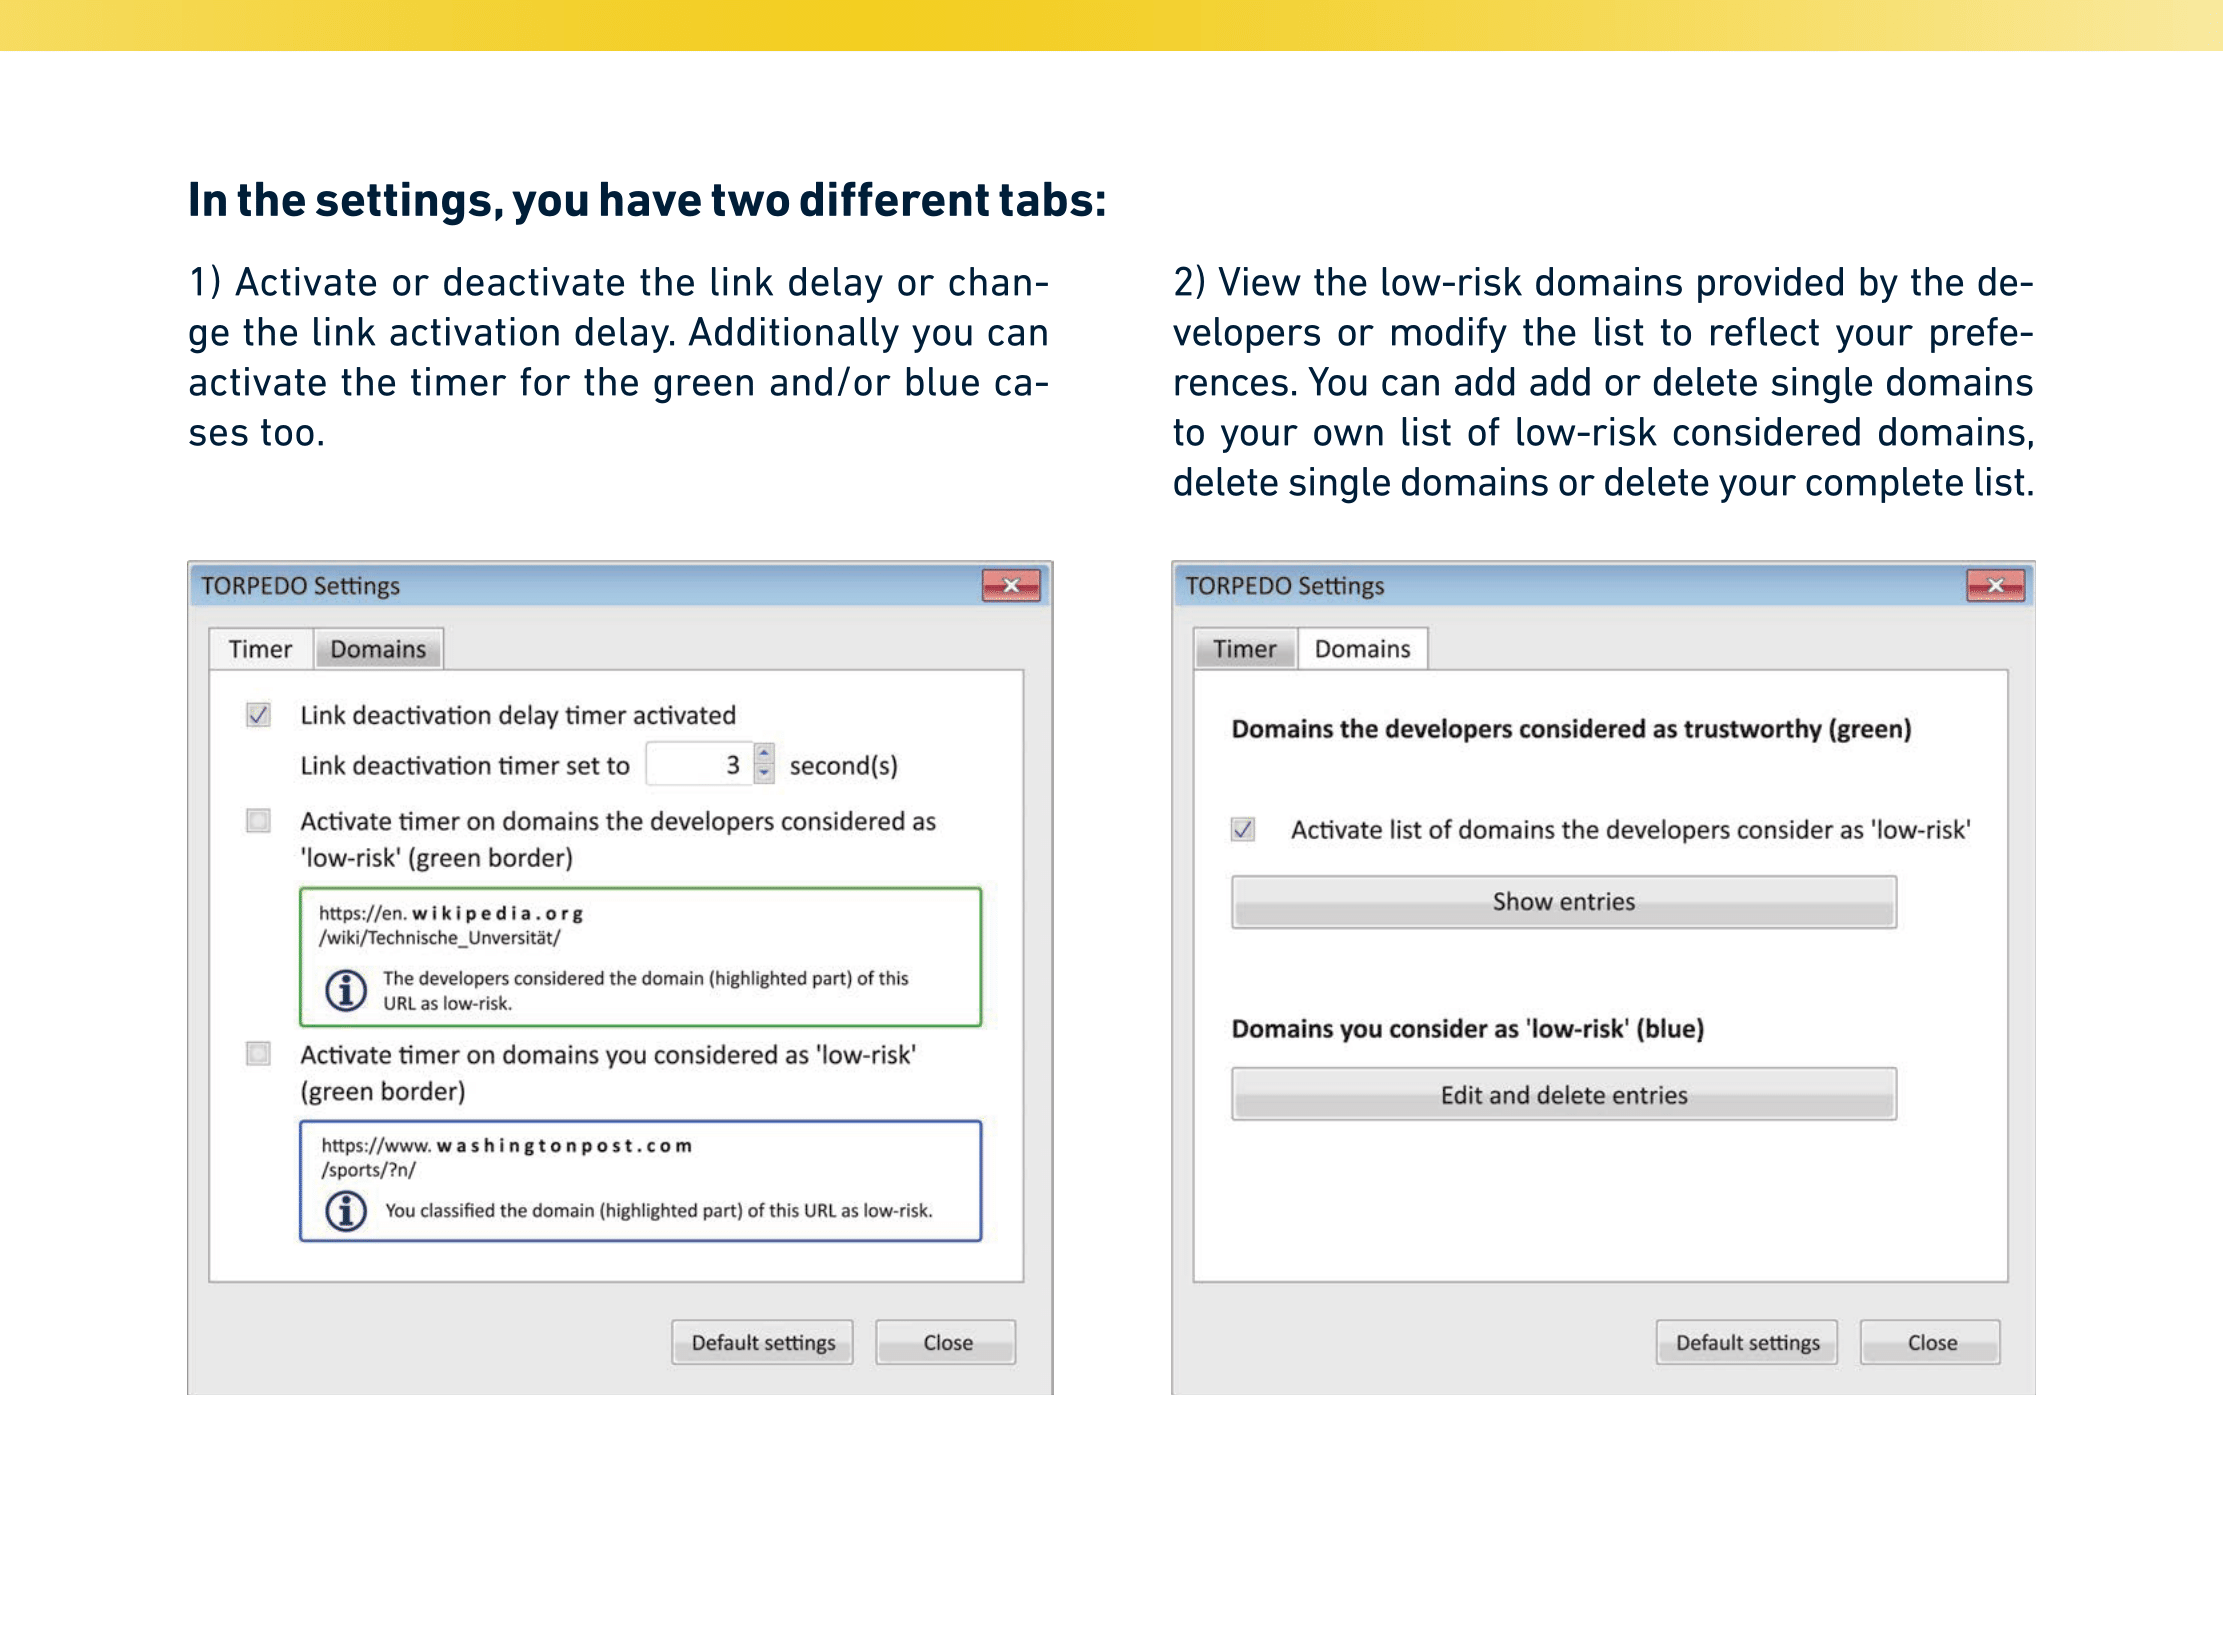
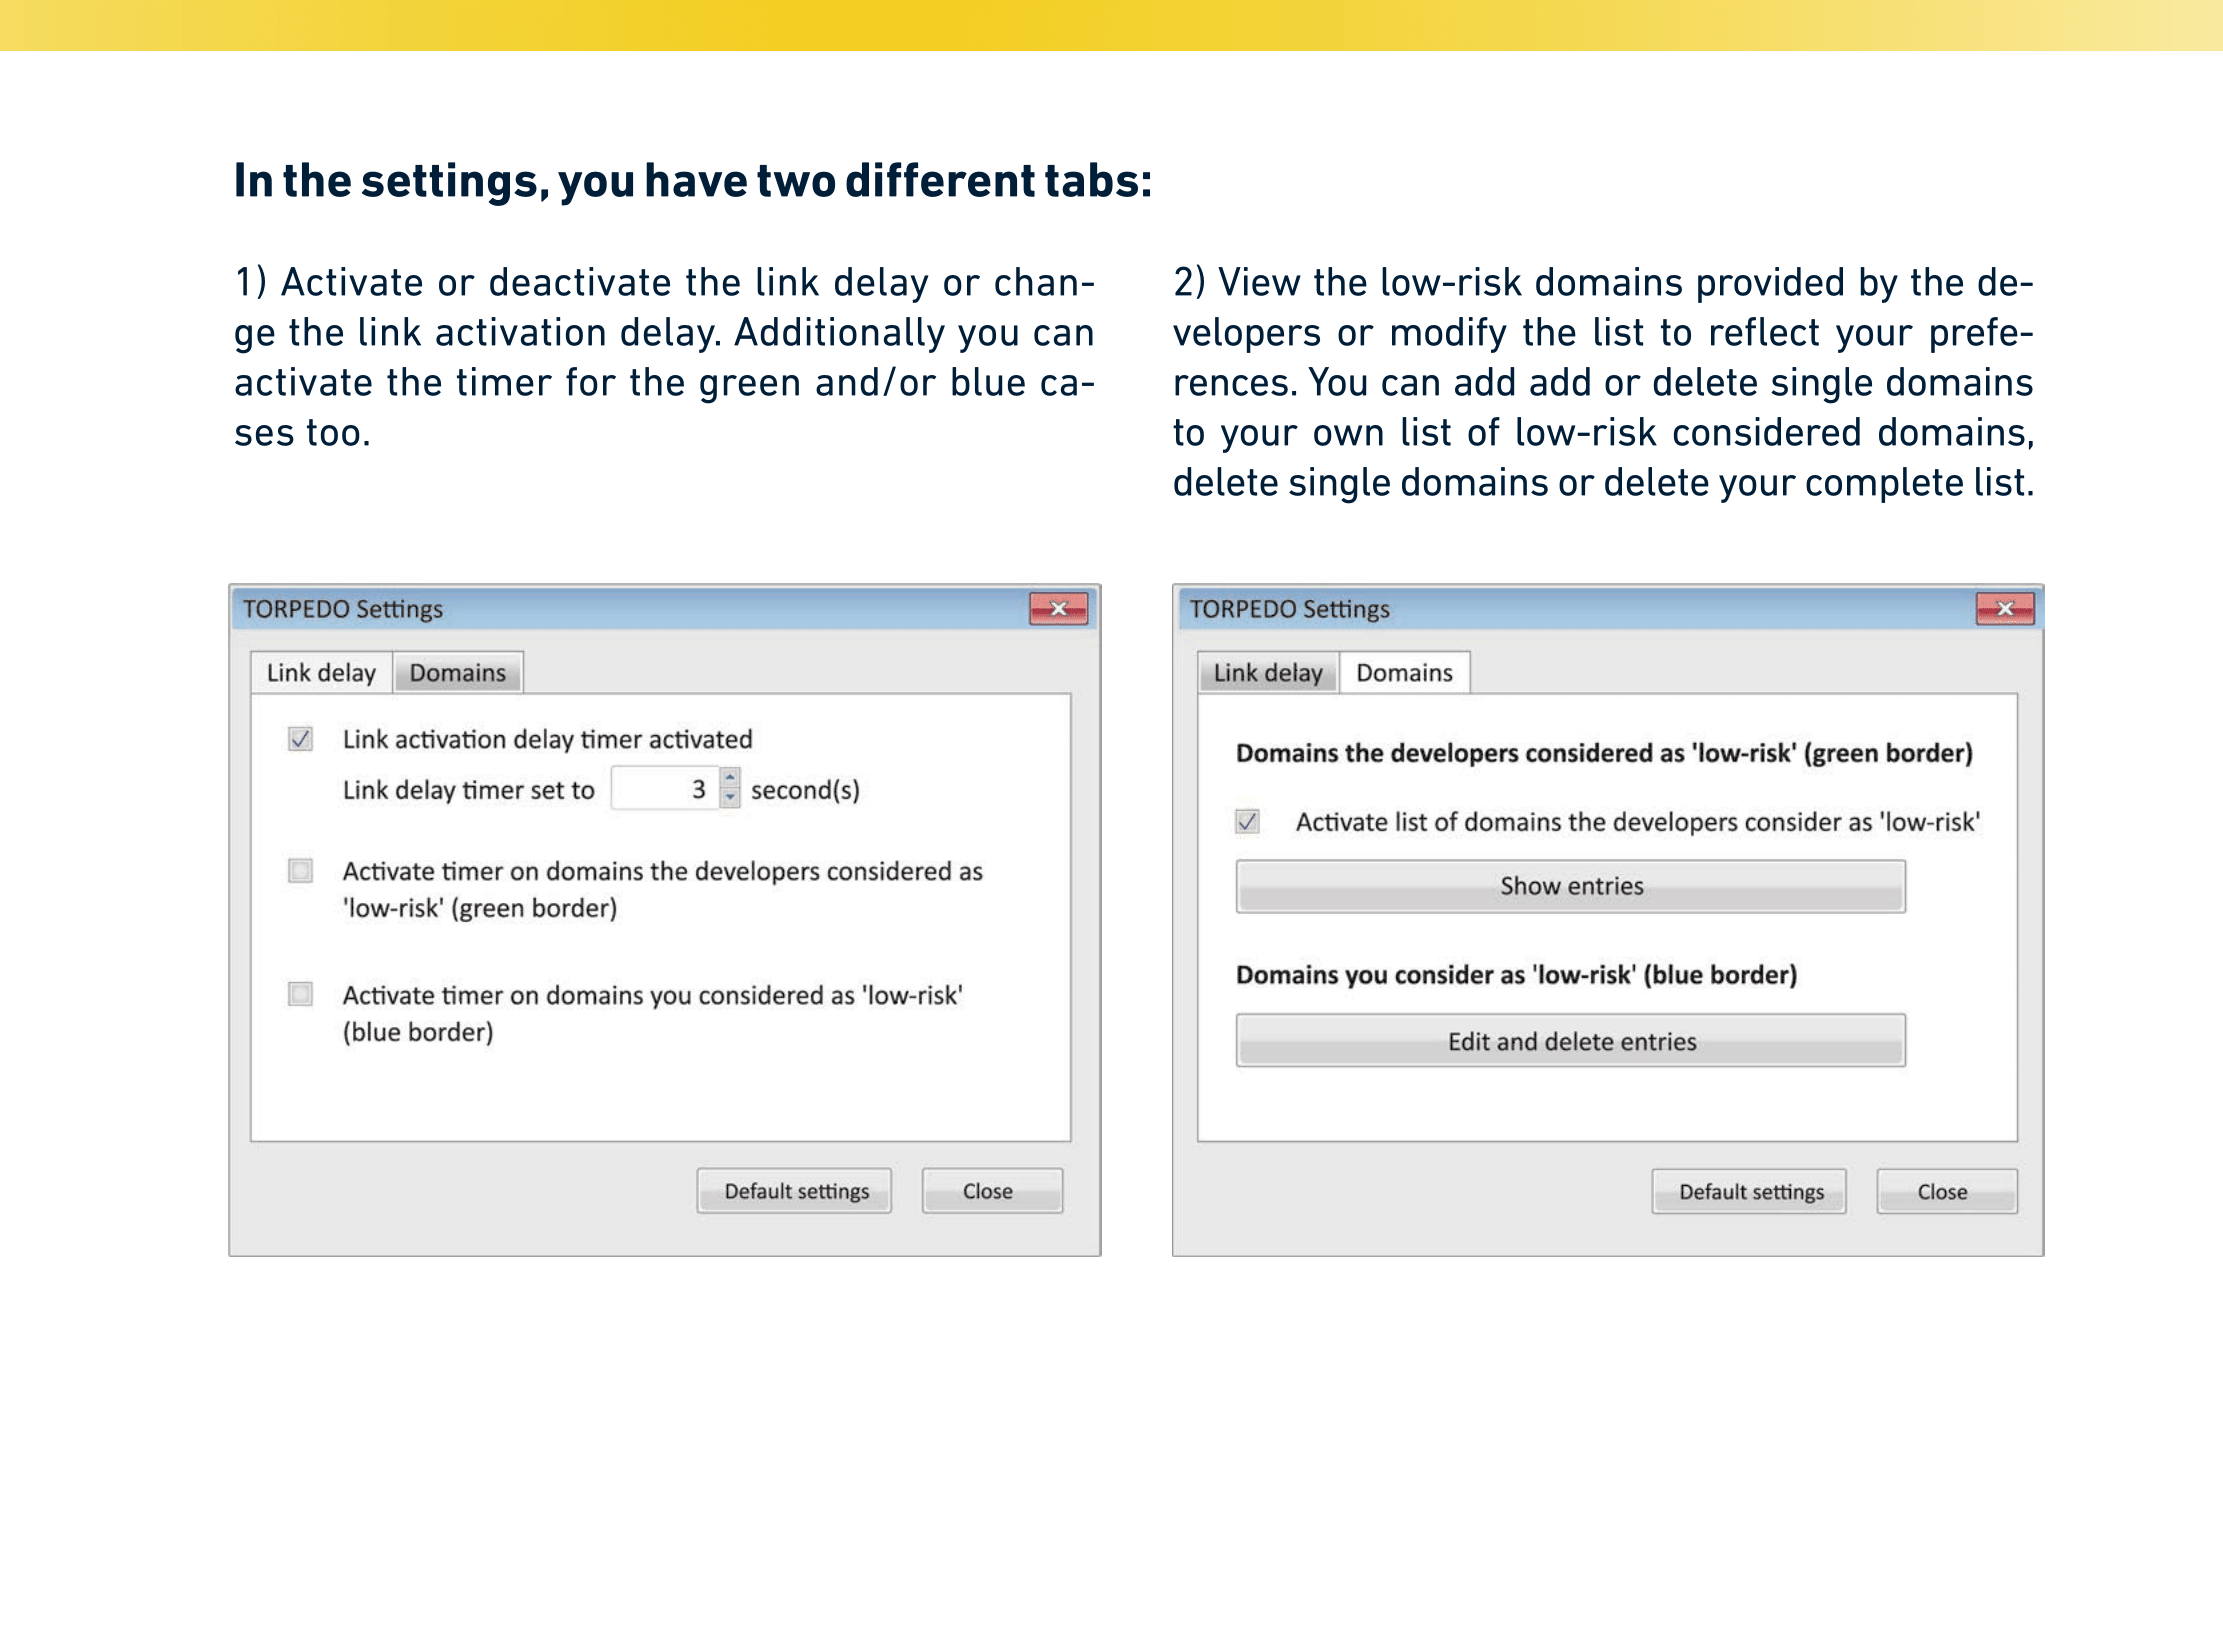
renamed windows and created new infobox texts

diff --git a/chrome/content/main.js b/chrome/content/main.js
@@ -8,7 +8,7 @@ torpedo.textSize;
 torpedo.gmxRedirect;
 torpedo.redirectClicked;
 torpedo.oldUrl;
-torpedo.infotext;
+torpedo.info;
 torpedo.state; // 0 is unknown, 1 is green, 2 is blue, 3 is grey, 4 is redirect, 5 is gmxredirect, 6 is phish
 
 torpedo.updateTooltip = function (url)
@@ -29,6 +29,7 @@ torpedo.updateTooltip = function (url)
 	var advice = document.getElementById("advice");
 	var advicebox = document.getElementById("advicebox");
 	var infotext = document.getElementById("infotext");
+	var infopic = document.getElementById("info-pic");
 	var infobox = document.getElementById("infobox");
 	var infos = document.getElementById("infos");
 	var nore = torpedo.prefs.getBoolPref("redirection0");
@@ -44,6 +45,7 @@ torpedo.updateTooltip = function (url)
 	linkDeactivate.hidden = shortenText;
 	phish.hidden = true;
 	advice.textContent = torpedo.stringsBundle.getString('knownadvice');
+	infotext.textContent = torpedo.stringsBundle.getString('moreinfolowrisk');
 	advicebox.hidden = false;
 	// assert url to tooltip
 	baseDomain.textContent = torpedo.baseDomain;
@@ -51,14 +53,17 @@ torpedo.updateTooltip = function (url)
 	var beginning = url.substring(0, split);
 	var end = url.substring(split+torpedo.baseDomain.length, url.length);
 	infos.style.marginBottom = "0px";
+	phish.style.marginBottom = "10px";
+	infobox.style.marginTop = "7px";
 	if(navigator.language.indexOf("de") > -1){
-		phish.style.marginBottom = "10px";
-		infobox.style.marginTop = "7px";
+		infotext.style.margin = "4px 0px 20px 6px"
+		infopic.style.marginTop = "6px"
 	}
 	else{
-		infobox.style.marginTop = "7px";
-		phish.style.marginBottom = "10px";
+		infotext.style.margin = "4px 0px 0px 6px";
+		infopic.style.marginTop = "0px";
 	}
+
 	if(torpedo.prefs.getIntPref("blockingTimer")==0) secondsbox.hidden = true;
 	url1.textContent = beginning;
 	url2.textContent = "";
@@ -80,7 +85,7 @@ torpedo.updateTooltip = function (url)
 	if(torpedo.functions.isChecked("green") && torpedo.db.inList(torpedo.baseDomain, "URLDefaultList") && !isRedirect){
 		panel.style.borderColor = "green";
 		torpedo.state = 1;
-		if(!torpedo.functions.isRedirect(torpedo.oldUrl)) torpedo.infotext = torpedo.stringsBundle.getString('infosongreen');
+		if(!torpedo.functions.isRedirect(torpedo.oldUrl)) torpedo.info = torpedo.stringsBundle.getString('infosongreen');
 		//if(shortenText) redirect.textContent = "";
 		//else
 		redirect.textContent = torpedo.stringsBundle.getString('lowrisk');
@@ -100,7 +105,7 @@ torpedo.updateTooltip = function (url)
 	else if(torpedo.db.inList(torpedo.baseDomain, "URLSecondList") && !isRedirect){
 		panel.style.borderColor = "#1a509d";
 		torpedo.state = 2;
-		if(!torpedo.functions.isRedirect(torpedo.oldUrl)) torpedo.infotext = torpedo.stringsBundle.getString('infosonblue');
+		if(!torpedo.functions.isRedirect(torpedo.oldUrl)) torpedo.info = torpedo.stringsBundle.getString('infosonblue');
 		if(shortenText) redirect.textContent = "";
 		else redirect.textContent = torpedo.stringsBundle.getString('userrisk');
 		advicebox.hidden = true;
@@ -121,8 +126,9 @@ torpedo.updateTooltip = function (url)
 			infobox.style.marginTop = "23px";
 		else infobox.style.marginTop = "10px";
 		advice.textContent = torpedo.stringsBundle.getString('unknownadvice');
+		infotext.textContent = torpedo.stringsBundle.getString('moreinfogrey');
 		if(!torpedo.functions.isRedirect(torpedo.oldUrl)){
-			torpedo.infotext = "";
+			torpedo.info = "";
 		}
 		else if(!isRedirect){
 			if(navigator.language.indexOf("de") > -1)
@@ -141,13 +147,16 @@ torpedo.updateTooltip = function (url)
 		phish.hidden = false;
 		advice.hidden = false;
 		phish.textContent = shortenText ? torpedo.stringsBundle.getString('redirect') : torpedo.stringsBundle.getString('alert_redirect');
-		torpedo.infotext = torpedo.stringsBundle.getString('infosongmxredirect');
+		infotext.textContent = torpedo.stringsBundle.getString('moreinforedirect');
+		torpedo.info = torpedo.stringsBundle.getString('infosongmxredirect');
 		if(navigator.language.indexOf("de") > -1){
 			phish.style.marginBottom = "5px";
 		}
 		else{
 			phish.style.marginBottom = "5px";
 		}
+		infotext.style.margin = "4px 0px 0px 6px";
+		infopic.style.marginTop = "0px";
 	}
 	// settings for redirect case
 	if(isRedirect){
@@ -155,11 +164,17 @@ torpedo.updateTooltip = function (url)
 			torpedo.state = 4;
 			if(shortenText) redirect.textContent = torpedo.stringsBundle.getString('shorturl_short');
 			else redirect.textContent = torpedo.stringsBundle.getString('shorturl');
-			torpedo.infotext = torpedo.stringsBundle.getString('infosonredirect');
+			torpedo.info = torpedo.stringsBundle.getString('infosonredirect');
 			advice.textContent = torpedo.stringsBundle.getString('redirectadvice');
-			if(navigator.language.indexOf("de") > -1)
+			infotext.textContent = torpedo.stringsBundle.getString('moreinforedirect');
+			if(navigator.language.indexOf("de") > -1){
 				infobox.style.marginTop = "25px";
-			else infobox.style.marginTop = "25px";
+			}
+			else{
+				infobox.style.marginTop = "25px";
+			}
+			infotext.style.margin = "4px 0px 0px 6px";
+			infopic.style.marginTop = "0px";
 		}
 	  else{
 	    redirectButton.hidden = true;
@@ -205,7 +220,10 @@ torpedo.updateTooltip = function (url)
 				}
 				phish.hidden = false;
 				advice.textContent = torpedo.stringsBundle.getString('phishadvice');
-				torpedo.infotext = torpedo.stringsBundle.getString('infosonred');
+				infotext.textContent = torpedo.stringsBundle.getString('moreinfophish');
+				infotext.style.margin = "4px 0px 20px 6px"
+				infopic.style.marginTop = "6px"
+				torpedo.info = torpedo.stringsBundle.getString('infosonred');
 			}
 		}
 	}

diff --git a/chrome/content/lib/handler.js b/chrome/content/lib/handler.js
@@ -62,7 +62,7 @@ torpedo.handler.mouseOverHref = function (event)
 	var moreinfos = document.getElementById("moreinfos");
 	var panel = document.getElementById("tooltippanel");
 	// do nothing when user reads infotext
-	if(panel.state == "closed" || torpedo.infotext == "" || moreinfos.textContent == ""){
+	if(panel.state == "closed" || torpedo.info == "" || moreinfos.textContent == ""){
 		mouseout = mouseout[0] ? [false,true] : [false,false];
 		tempTarget = torpedo.functions.findParentTagTarget(event, 'A');
 		var url = tempTarget.getAttribute("href");
@@ -87,7 +87,7 @@ torpedo.handler.mouseOverHref = function (event)
 				alreadyClicked = "";
 				var redirect = false;
 				moreinfos.textContent = "";
-				torpedo.infotext = "";
+				torpedo.info = "";
 				document.getElementById("infocheck").hidden = true;
 
 				// check if url is a "redirectUrl=" url (gmxredirect)
@@ -193,18 +193,17 @@ torpedo.handler.mouseClickInfoButton = function (event)
 			torpedo.dialogmanager.createUnknownInfo();
 		}
 		document.getElementById("infocheck").hidden = false;
-		moreinfos.textContent = torpedo.infotext;
+		moreinfos.textContent = torpedo.info;
 	}
 	else{
 		if(moreinfos.textContent != ""){
 			moreinfos.textContent = "";
 		}
-		else moreinfos.textContent = torpedo.infotext;
+		else moreinfos.textContent = torpedo.info;
 	}
 };
 
 torpedo.handler.mouseClickDeleteButton = function(event){
-	Application.console.log("2")
 	torpedo.dialogmanager.createDelete();
 };
 torpedo.handler.mouseClickDefaultsEditButton = function(event){

diff --git a/chrome/content/lib/dialogmanager.js b/chrome/content/lib/dialogmanager.js
@@ -6,9 +6,12 @@ torpedo.dialogmanager.createDelete = function ()  {
 	windowHeight=500;
   var left = (screen.width/2)-(windowWidth/2);
   var top = (screen.height/2)-(windowHeight/2);
-  window.openDialog("chrome://torpedo/content/dialog/delete.xul", "bmarks", "chrome=yes, dialog,resizable=no, modal, top='+top+',left='+left+',width='+windowWidth+',height='+windowHeight+'",top,left);
+  window.openDialog("chrome://torpedo/content/dialog/delete.xul", "bmarksdelete", "chrome=yes, dialog,resizable=no, modal, top='+top+',left='+left+',width='+windowWidth+',height='+windowHeight+'",top,left);
 };
 
+torpedo.dialogmanager.options = function() {
+  window.openDialog('chrome://torpedo/content/options.xul','bmarksoptions','chrome=yes, dialog,resizable=no, modal, centerscreen');
+}
 torpedo.dialogmanager.createDefaultDelete = function (windowWidth,windowHeight)  {
 	window.openDialog("chrome://torpedo/content/dialog/defaultdelete.xul", "bmarks", "chrome, dialog,resizable=no,centerscreen, modal,width='+windowWidth+',height='+windowHeight+'");
 };
@@ -18,7 +21,7 @@ torpedo.dialogmanager.createEdit = function () {
 };
 
 torpedo.dialogmanager.createInfo = function () {
-	window.openDialog("chrome://torpedo/content/dialog/info.xul", "bmarks", "chrome=yes, dialog,resizable=no, modal, centerscreen");
+	window.openDialog("chrome://torpedo/content/dialog/info.xul", "bmarksinfo", "chrome=yes, dialog,resizable=no, modal, centerscreen");
 };
 
 torpedo.dialogmanager.showDefaults = function(){

diff --git a/chrome/content/lib/funktions.js b/chrome/content/lib/funktions.js
@@ -376,7 +376,6 @@ torpedo.functions.changeActivatedOrange = function (click){
 torpedo.functions.changeCheckedTimer = function (){
     d = !d;
     torpedo.prefs.setBoolPref("checkedTimer", d);
-    Application.console.log(document.getElementById("listofdefaults").style.color);
     if(!d){
         torpedo.prefs.setIntPref("blockingTimer", 0);
         document.getElementById("countdown").disabled = true;
@@ -395,23 +394,6 @@ torpedo.functions.changeCheckedTimer = function (){
         document.getElementById("activateorange").removeAttribute("style");
         document.getElementById("activateorange").setAttribute("style","width:330px; margin-top:15px");
     }
-}
-
-torpedo.functions.setTimerRange = function(){
-  timer = torpedo.prefs.getIntPref("blockingTimer");
-	var message = document.getElementById("timerTooHigh");
-	var error = document.getElementById("errorTooHigh");
-  var panel = document.getElementById("countdown");
-
-  if(timer > 100){
-    torpedo.prefs.setIntPref("blockingTimer", 100);
-    error.textContent = torpedo.stringsBundle.getString('toohigh');
-		message.openPopup(panel, "before_start",0,0, false, false);
-	  setTimeout(function (e){
-      message.hidePopup();
-    }, 4500);
-		panel.select();
-  }
 }
 
 // redirection settings

diff --git a/chrome/content/lib/database.js b/chrome/content/lib/database.js
@@ -102,6 +102,7 @@ torpedo.db.deleteAllSecond = function () {
     str.data = "";
 	torpedo.prefs.setComplexValue("URLSecondList", Components.interfaces.nsISupportsString, str);
 	torpedo.prefs.setComplexValue("URLFirstList", Components.interfaces.nsISupportsString, str);
+	torpedo.db.getSecond();
 };
 
 torpedo.db.getSecond = function () {
@@ -158,7 +159,7 @@ torpedo.db.addEntries = function(){
 	var error = document.getElementById("error");
 	var panel = document.getElementById("addEntries");
 	torpedo.stringsBundle = document.getElementById("torpedo-string-bundle");
-	
+
 	addSites.toLowerCase();
 	addSites = addSites.replace(/\s+/g, '');
 	addSites = addSites + ",";

diff --git a/chrome/skin/tooltippanel.css b/chrome/skin/tooltippanel.css
@@ -91,7 +91,7 @@
 #info-pic
 {
   max-width: 27px;
-  height: 28px;
+  max-height: 28px;
   cursor: pointer;
 	margin-right: 2px;
 }
